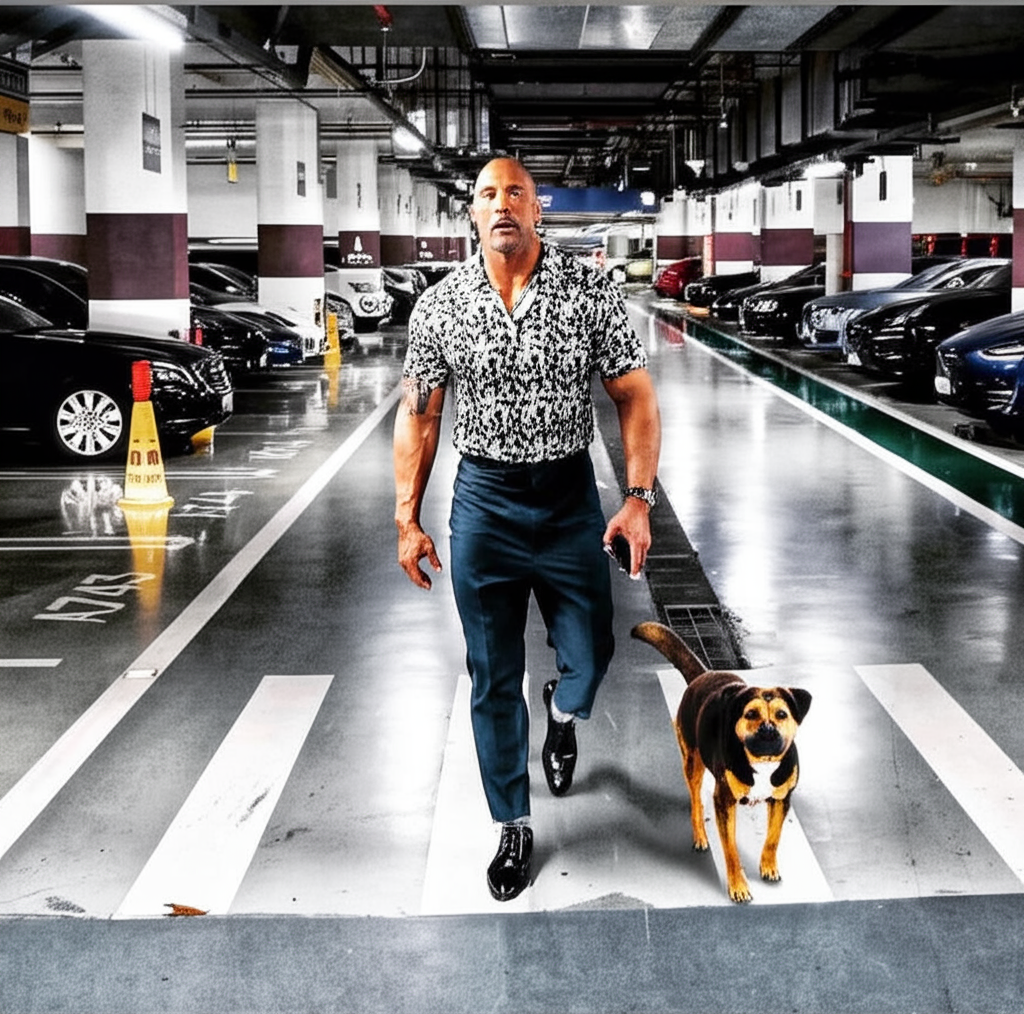
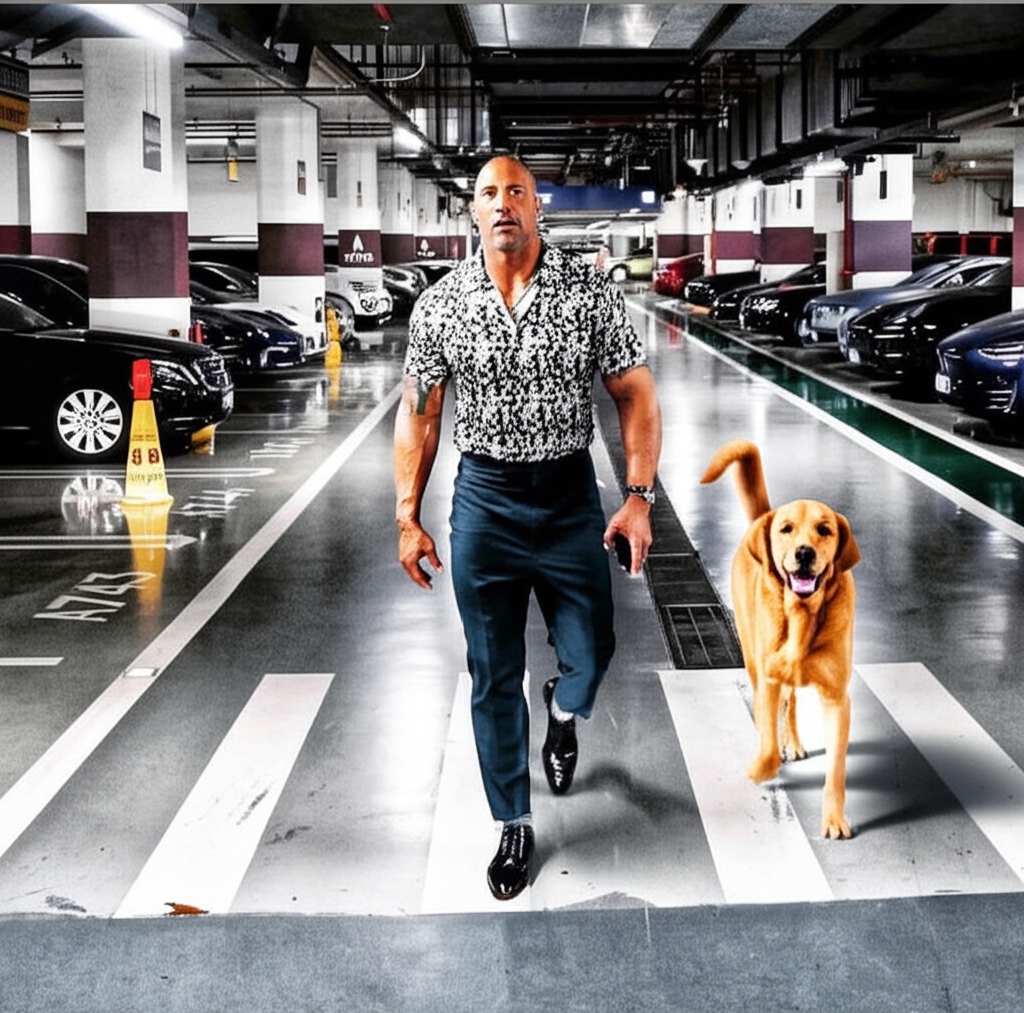
refactor(ui): after pic and padding

diff --git a/src/app/page.tsx b/src/app/page.tsx
@@ -37,7 +37,7 @@ export default function Home() {
         </h3>
 
         <div className="flex md:flex-row flex-col justify-center items-center w-full mt-12 gap-x-2">
-          <div className="flex flex-col items-center mt-4">
+          <div className="flex flex-col items-center">
             <p className="text-2xl csshadow font-bold text-white text-center">
               Example
             </p>
@@ -236,7 +236,7 @@ export default function Home() {
           </div>
         </div>
 
-        <div className="p-4 mt-12 flex flex-col items-center">
+        <div className="p-4 mt-14 flex flex-col items-center">
           <p className="text-xs font-semilight text-white text-center">
             <b>Fun Fact:</b> Studies show that dogs do well on dating profiles!
           </p>

diff --git a/src/app/api/submit-image/route.ts b/src/app/api/submit-image/route.ts
@@ -6,6 +6,9 @@ const ai = new GoogleGenAI({
   apiKey: process.env.GEMINI_KEY,
 });
 
+const PROMPT =
+  "Add a dog to this photo. Do NOT, under any means, modify any other part of the image, even a little bit. Keep everything the same. Do NOT remove any objects of focus such as a person. JUST ADD THE DOG ONLY.";
+
 export async function POST(req: NextRequest) {
   const { base64Image } = await req.json();
   if (!base64Image) {
@@ -17,7 +20,7 @@ export async function POST(req: NextRequest) {
 
   const contents = [
     {
-      text: "Add a dog to this photo. Do NOT, under any means, modify any other part of the image. Just add a dog.",
+      text: PROMPT,
     },
     {
       inlineData: {
